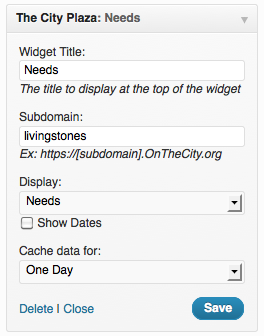
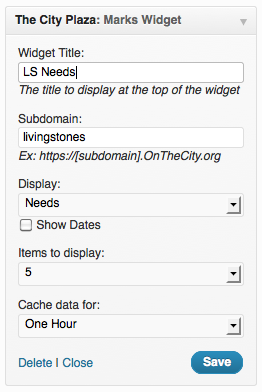
boom

diff --git a/thecity-plaza/plaza-php/index.html b/thecity-plaza/plaza-php/index.html
@@ -61,38 +61,68 @@ the_city = new TheCity('mychurch', false);
 </code></pre>
 
 <h2 id="load-topics">Load Topics</h2>
+<pre><code>$array_of_topic_titles = $the_city-&gt;topics()-&gt;titles();
 
-<pre><code>$array_of_topic_titles = $the_city-&gt;topics-&gt;all_titles();
+# by default will grab 10 topics.
+$topics = $the_city-&gt;topics();
 
-$topic = $the_city-&gt;topics.get(1);
+# limit the amount of topics fetched from The City.
+$topics = $the_city-&gt;topics(3);
+
+# Get topic.
+$topic = $topics-&gt;select(2);
 </code></pre>
 
 <h2 id="load-events">Load Events</h2>
+<pre><code>$array_of_event_titles = $the_city-&gt;events()-&gt;titles();
 
-<pre><code>$array_of_event_titles = $the_city.events.all_titles();
+# by default will grab 10 events.
+$events = $the_city-&gt;events();
 
-$event = $the_city.events.get(1);
+# limit the amount of events fetched from The City  
+$events = $the_city-&gt;events(3);
+
+# Get event.
+$event = $events-&gt;select(2);
 </code></pre>
 
 <h2 id="load-prayers">Load Prayers</h2>
+<pre><code>$array_of_prayer_titles = $the_city-&gt;prayers()-&gt;titles();
 
-<pre><code>$array_of_prayer_titles = $the_city.prayers.all_titles();
+# by default will grab 10 prayers.
+$prayers = $the_city-&gt;prayers();
 
-$prayer = $the_city.prayers.get(1);
+# limit the amount of prayers fetched from The City  
+$rayers = $the_city-&gt;prayers(3);
+
+# Get prayer
+$prayer = $prayers-&gt;select(2);
 </code></pre>
 
 <h2 id="load-needs">Load Needs</h2>
+<pre><code>$array_of_need_titles = $the_city-&gt;prayers()-&gt;titles();
 
-<pre><code>$array_of_need_titles = $the_city.prayers.all_titles();
+# by default will grab 10 needs
+$needs = $the_city-&gt;needs();
 
-$need = $the_city.needs.get(1);
+# limit the amount of needs fetched from The City   
+$needs = $the_city-&gt;needs(3);
+
+# Get needs
+$need = $needs-&gt;select(2);
 </code></pre>
 
 <h2 id="albums">Albums</h2>
+<pre><code>$array_of_album_titles = $the_city-&gt;albums()-&gt;titles();
 
-<pre><code>$array_of_album_titles = $the_city.albums.all_titles();
+# by default will grab 10 albums
+$albums = $the_city-&gt;albums();
 
-$album = $the_city.albums.get(1);
+# limit the amount of albums fetched from The City  
+$albums = $the_city-&gt;albums(3);
+
+// Get event
+$album = $albums-&gt;select(2);
 </code></pre>
       </div>
 

diff --git a/thecity-plaza/plaza-ruby/index.html b/thecity-plaza/plaza-ruby/index.html
@@ -64,35 +64,70 @@ the_city = TheCity.new('mychurch', false);
 
 <pre><code>array_of_topic_titles = the_city.topics.titles
 
-topic = the_city.topics[1]
+# by default will grab 10 topics.
+topics = the_city.topics 
+
+# limit the amount of topics fetched from The City.
+topics = the_city.topics(3)    
+
+# Get topic.
+topic = topics.select(2)
 </code></pre>
 
 <h2 id="load-events">Load Events</h2>
 
 <pre><code>array_of_event_titles = the_city.events.titles
 
-event = the_city.events[1]
+# by default will grab 10 events.
+events = the_city.events
+
+# limit the amount of events fetched from The City  
+events = the_city.events(3)
+
+# Get event.
+event = events.select(2)
 </code></pre>
 
 <h2 id="load-prayers">Load Prayers</h2>
 
 <pre><code>array_of_prayer_titles = the_city.prayers.titles
 
-prayer = the_city.prayers[1]
+# by default will grab 10 prayers.
+prayers = the_city.prayers
+
+# limit the amount of prayers fetched from The City  
+prayers = the_city.prayers(3)
+
+# Get prayer.
+prayer = prayers.select(2)
 </code></pre>
 
 <h2 id="load-needs">Load Needs</h2>
 
 <pre><code>array_of_need_titles = the_city.prayers.titles
 
-need = the_city.needs[1]
+# by default will grab 10 needs.
+needs = the_city.needs
+
+# limit the amount of needs fetched from The City   
+needs = the_city.needs(3)
+
+# Get need.
+need = needs.select(2)
 </code></pre>
 
 <h2 id="albums">Albums</h2>
 
 <pre><code>array_of_album_titles = the_city.albums.titles
 
-album = the_city.albums[1]
+# by default will grab 10 albums.
+albums = the_city.albums
+
+# limit the amount of albums fetched from The City  
+albums = the_city.albums(3)
+
+# Get album.
+album = albums.select(2)
 </code></pre>
       </div>
 

diff --git a/thecity-plugins/wordpress/index.html b/thecity-plugins/wordpress/index.html
@@ -63,6 +63,10 @@ Select the data to pull from the Plaza.</p>
 Check to show the date the items were placed on the Plaza.</p>
   </li>
   <li>
+    <p>Items to display  <br>
+The number of items to display in the widget area.</p>
+  </li>
+  <li>
     <p>Cache data for<br>
 The time period to cache the data before requesting it again from the server.  Caching data speeds up displaying content on you website.</p>
   </li>
